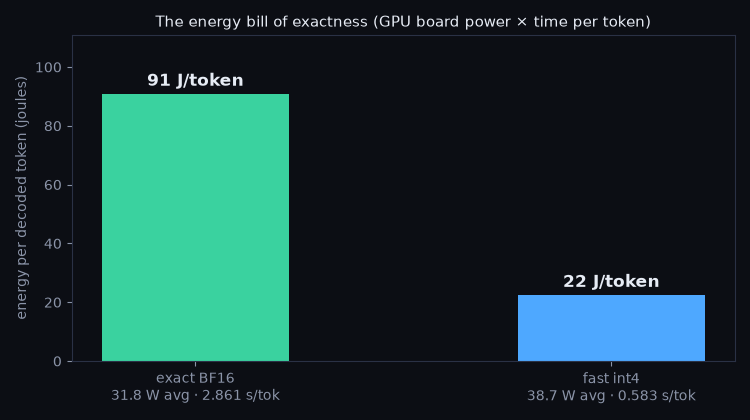
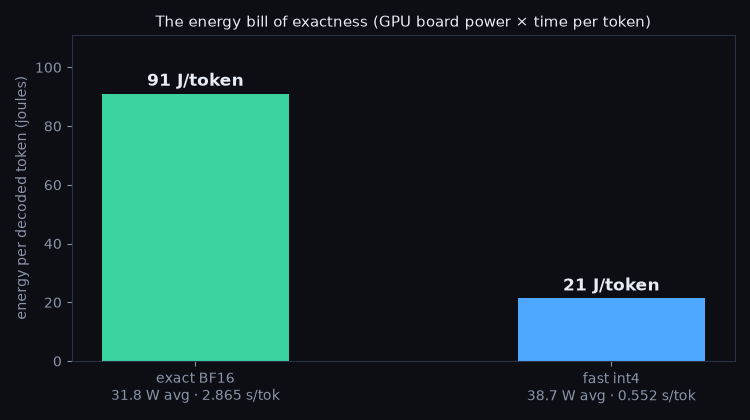
Derive energy-per-token from committed receipts (21.3/91.0 J); ends the 1.7 vs 1.81 chain

Changed region(s): [[0.6747, 0.65, 0.9507, 0.7119], [0.8587, 0.9286, 0.8893, 0.9595], [0.3067, 0.9286, 0.3373, 0.9595]]

diff --git a/BENCHMARKS.md b/BENCHMARKS.md
@@ -71,8 +71,8 @@ pinned buffers, and transport overlap rather than kernels.
 
 | mode | avg board power | GPU util | energy per token |
 |---|---|---|---|
-| exact BF16 | 31.8 W | 25.9% | **90.9 J** |
-| fast int4 | 38.7 W | 25.7% | **22.5 J** |
+| exact BF16 | 31.8 W | 25.9% | **91.0 J** |
+| fast int4 | 38.7 W | 25.7% | **21.3 J** |
 
 Exactness costs ~4× the energy per token, not because it draws more power (it draws *less*),
 but because each token takes longer. Receipts: `validation/power_metrics.json`.